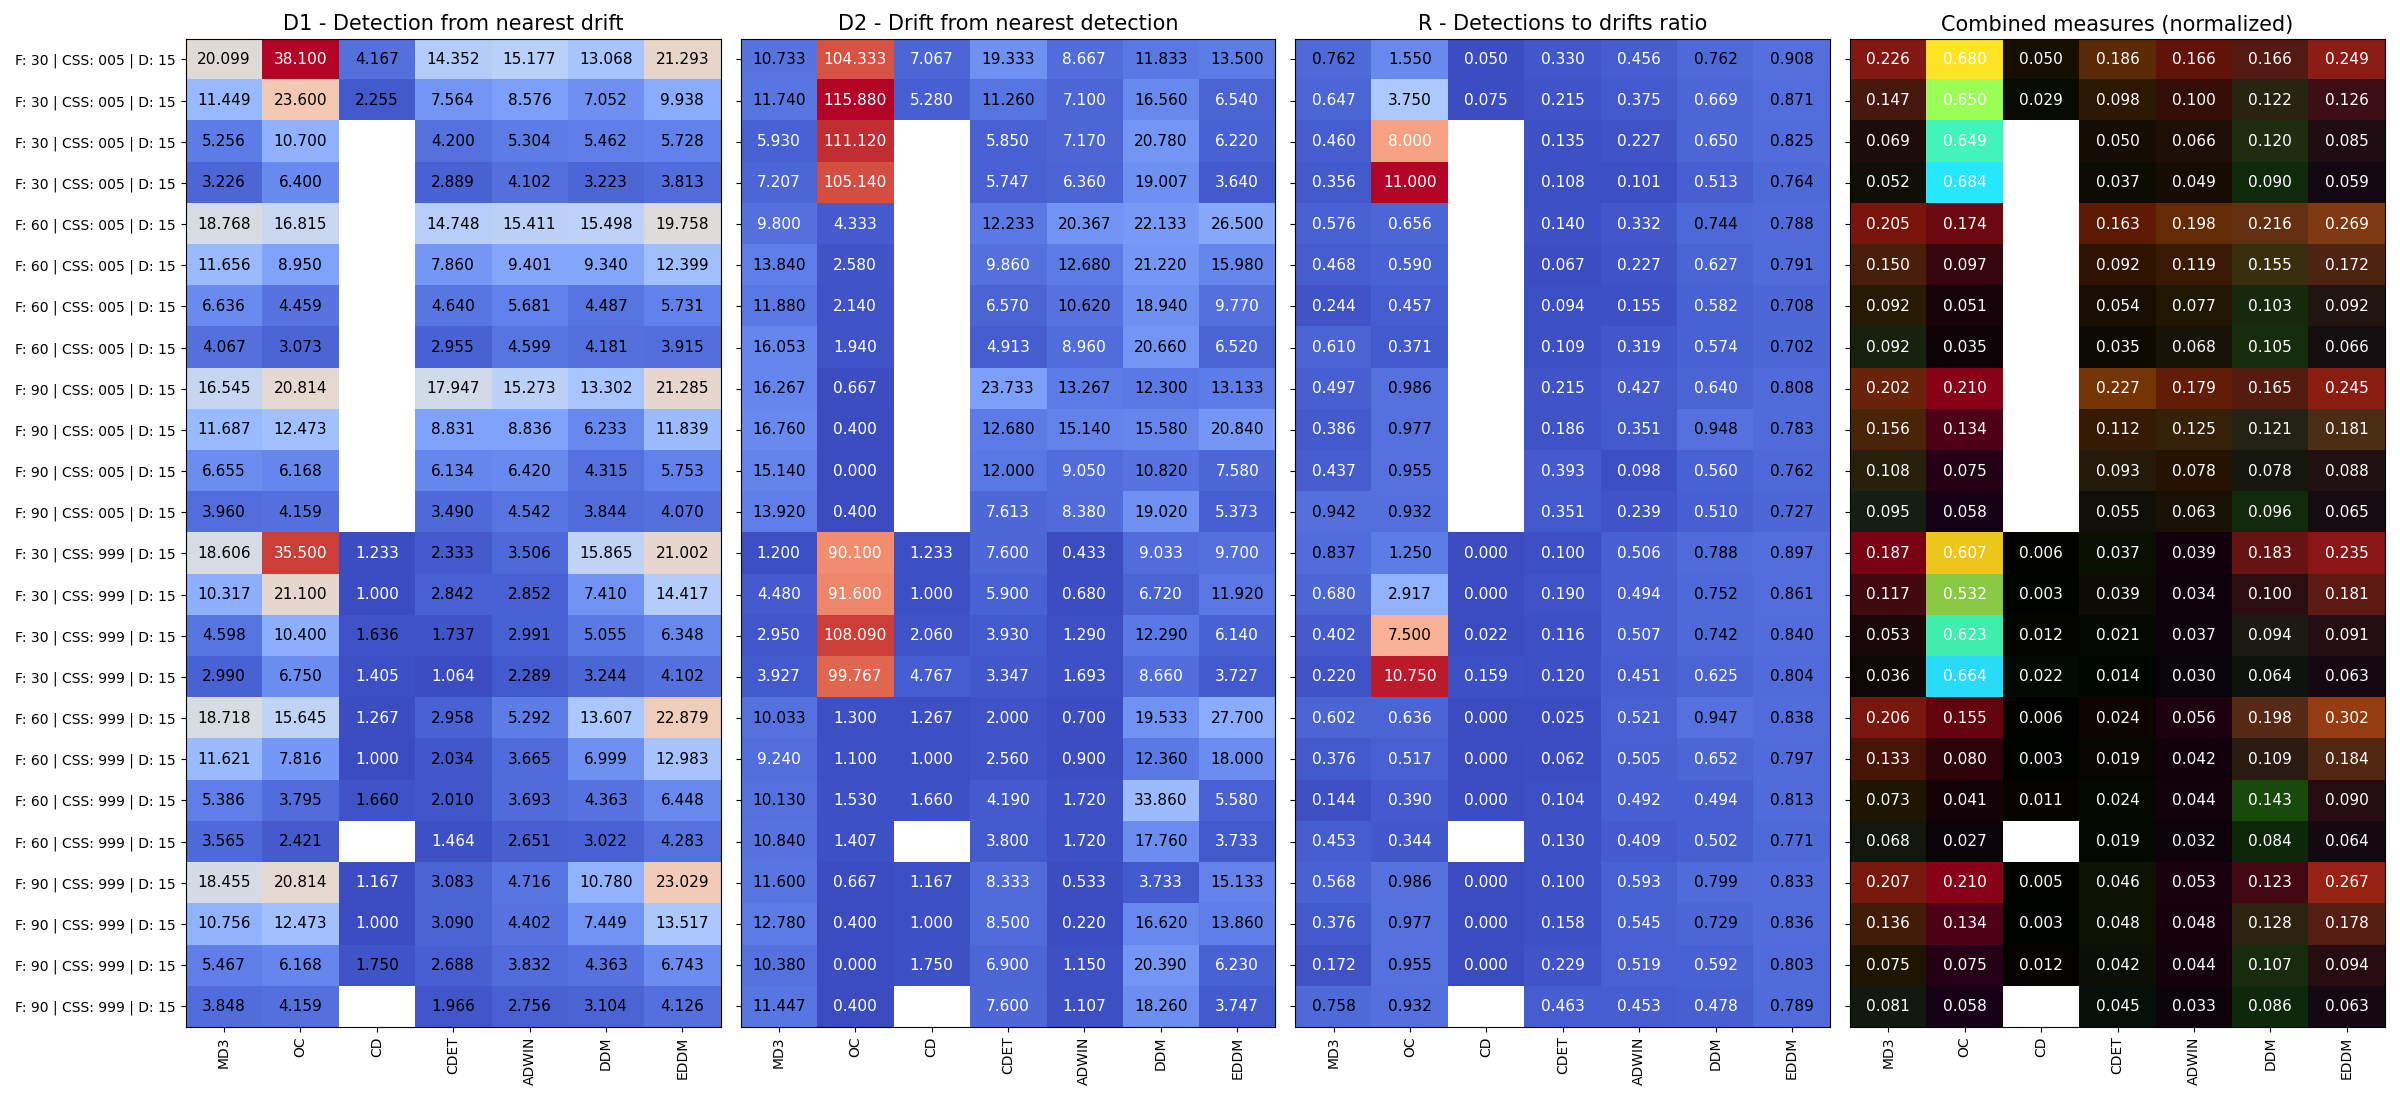
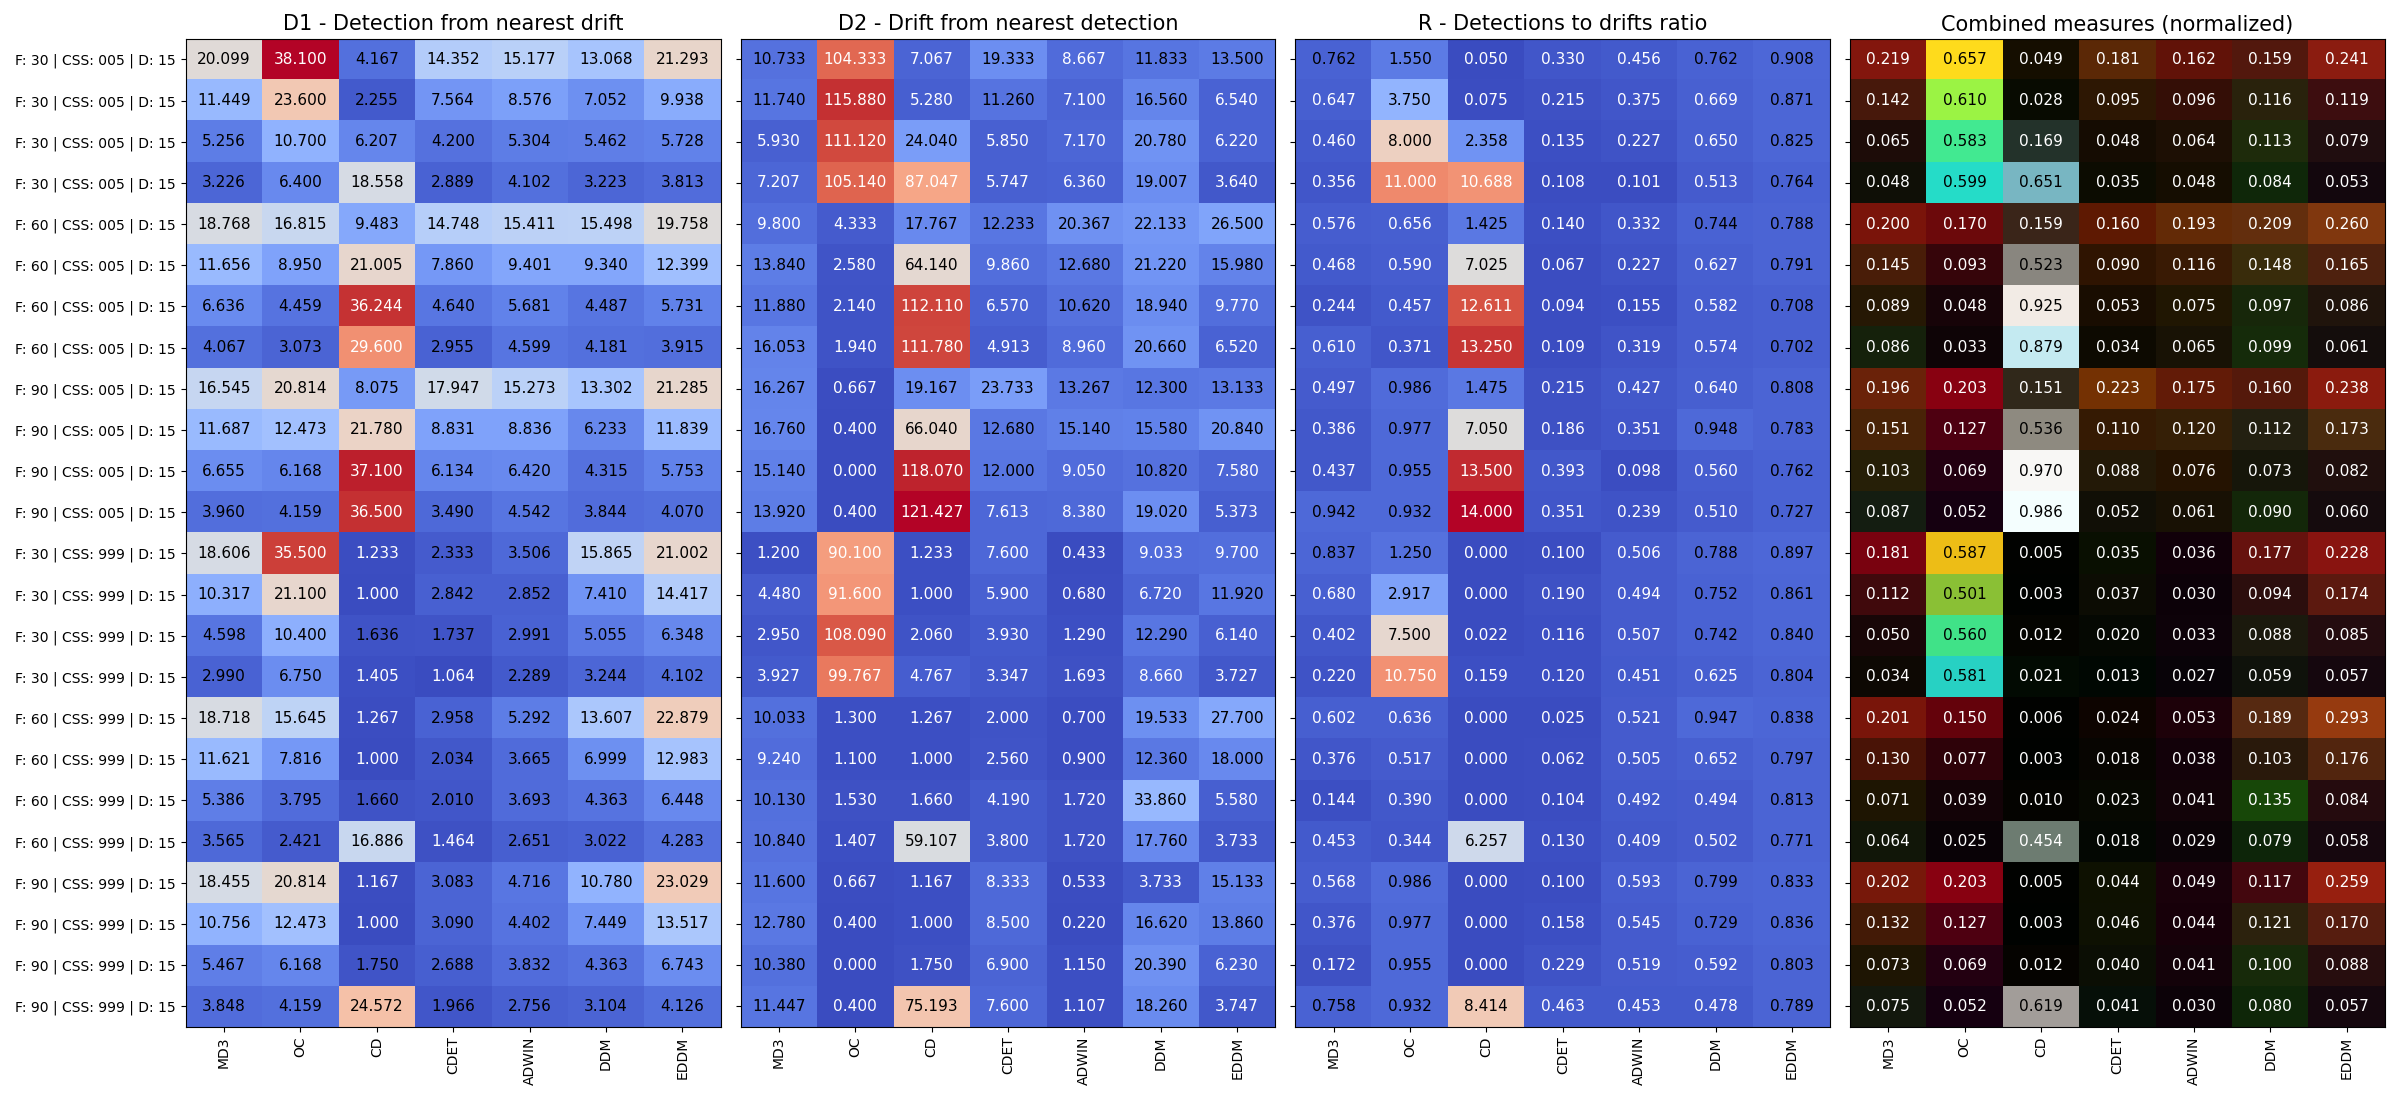
nans

diff --git a/analyze_compare_more_nans.py b/analyze_compare_more_nans.py
@@ -36,8 +36,8 @@ for n_f_id, n_f in enumerate(_n_features):
                     results[r, n_f_id, css_id, n_d_id, method_id] = errs                
 
 results[np.isinf(results)] = np.nan
-for eid in range(3):
-    results[:,:,:,:,:,eid][np.isnan(results[:,:,:,:,:,eid])] = np.nanmax(results[:,:,:,:,:,eid])
+# for eid in range(3):
+#     results[:,:,:,:,:,eid][np.isnan(results[:,:,:,:,:,eid])] = np.nanmax(results[:,:,:,:,:,eid])
     
 mean_results = np.mean(results, axis=0)
 print(mean_results.shape)
@@ -62,10 +62,10 @@ ax[2].set_title('R - Detections to drifts ratio', fontsize=15)
 
 col = np.copy(mean_results).astype(float)
 for c in range(3):
-    # col[:,:,c][np.isinf(col[:,:,c])]=np.nan
-    # col[:,:,c][np.isnan(col[:,:,c])]=np.nanmax(col[:,:,c])
-    col[:,:,c]-=np.min(col[:,:,c])
-    col[:,:,c]/=np.max(col[:,:,c])+0.00001
+    col[:,:,c]-=np.nanmin(col[:,:,c])
+    col[:,:,c]/=np.nanmax(col[:,:,c])+0.00001
+
+col[np.isnan(col)] = 1
 ax[3].imshow(col, aspect='auto')
 ax[3].set_title('Combined measures (normalized)', fontsize=15)
 
@@ -98,4 +98,4 @@ for _a in range(24):
 
 plt.tight_layout()
 plt.savefig('foo.png')
-plt.savefig('fig_exp1/errs.png')
+plt.savefig('fig_exp1/errs_nans.png')
